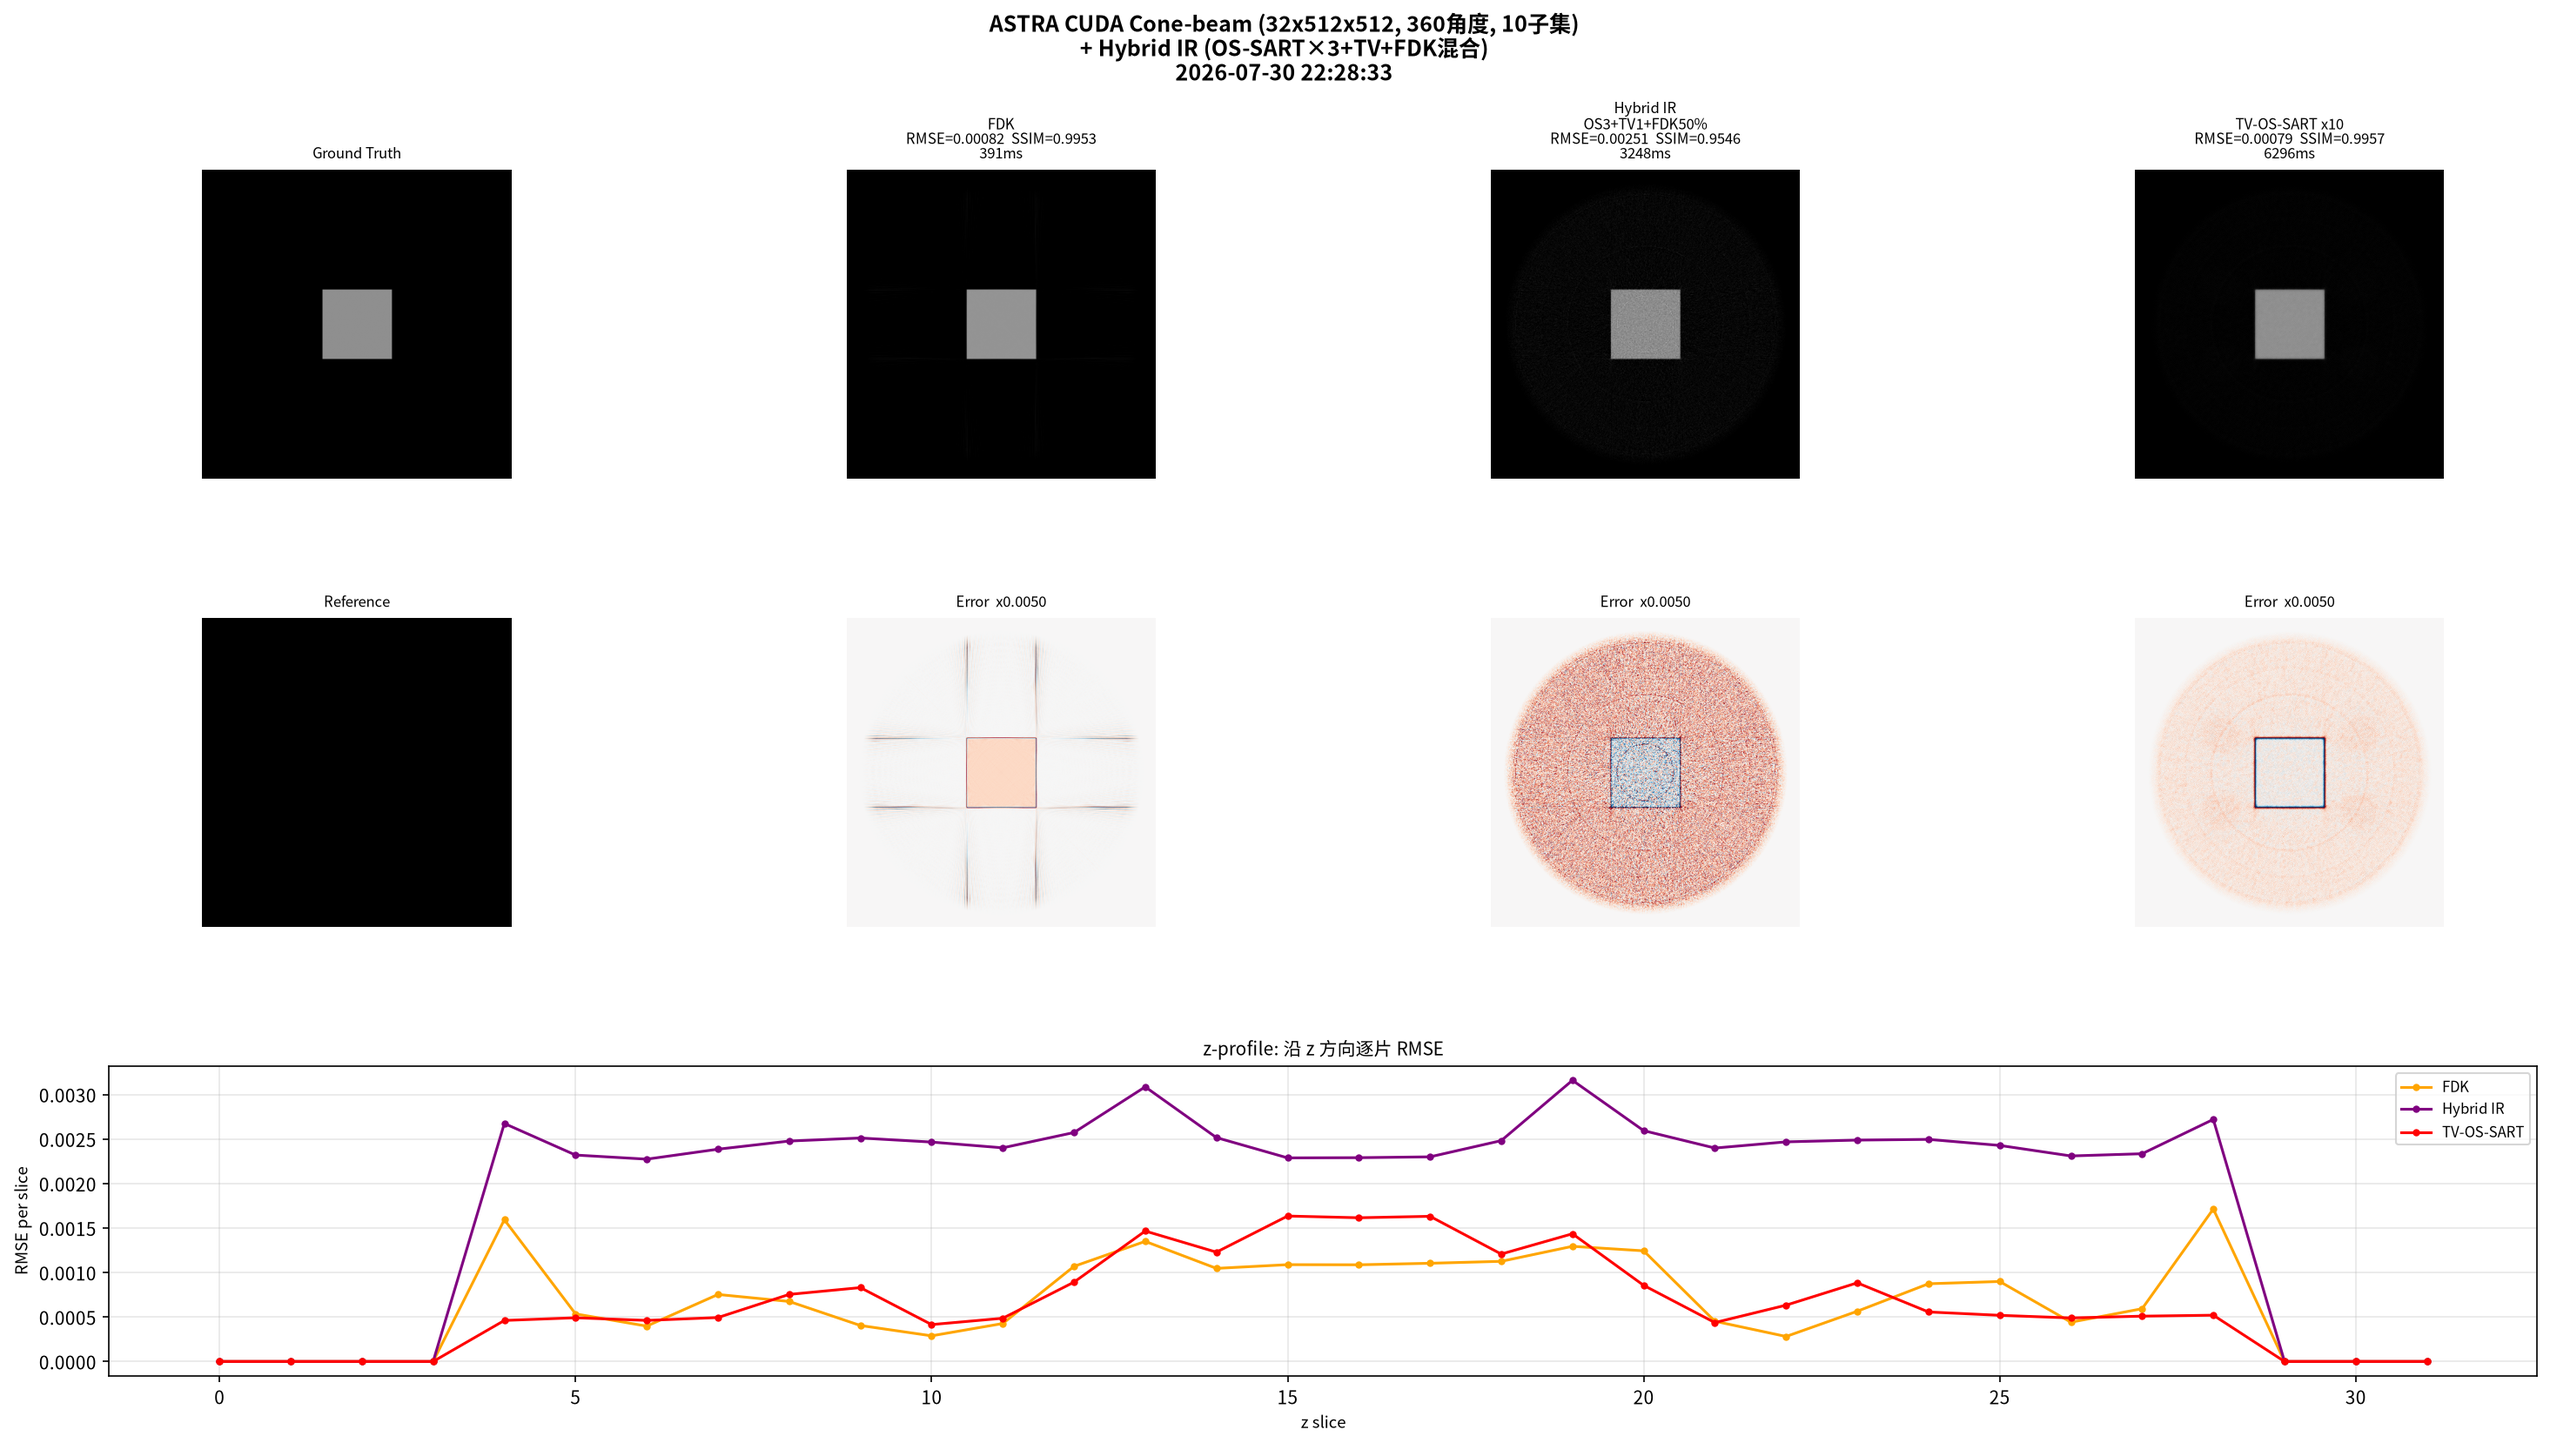
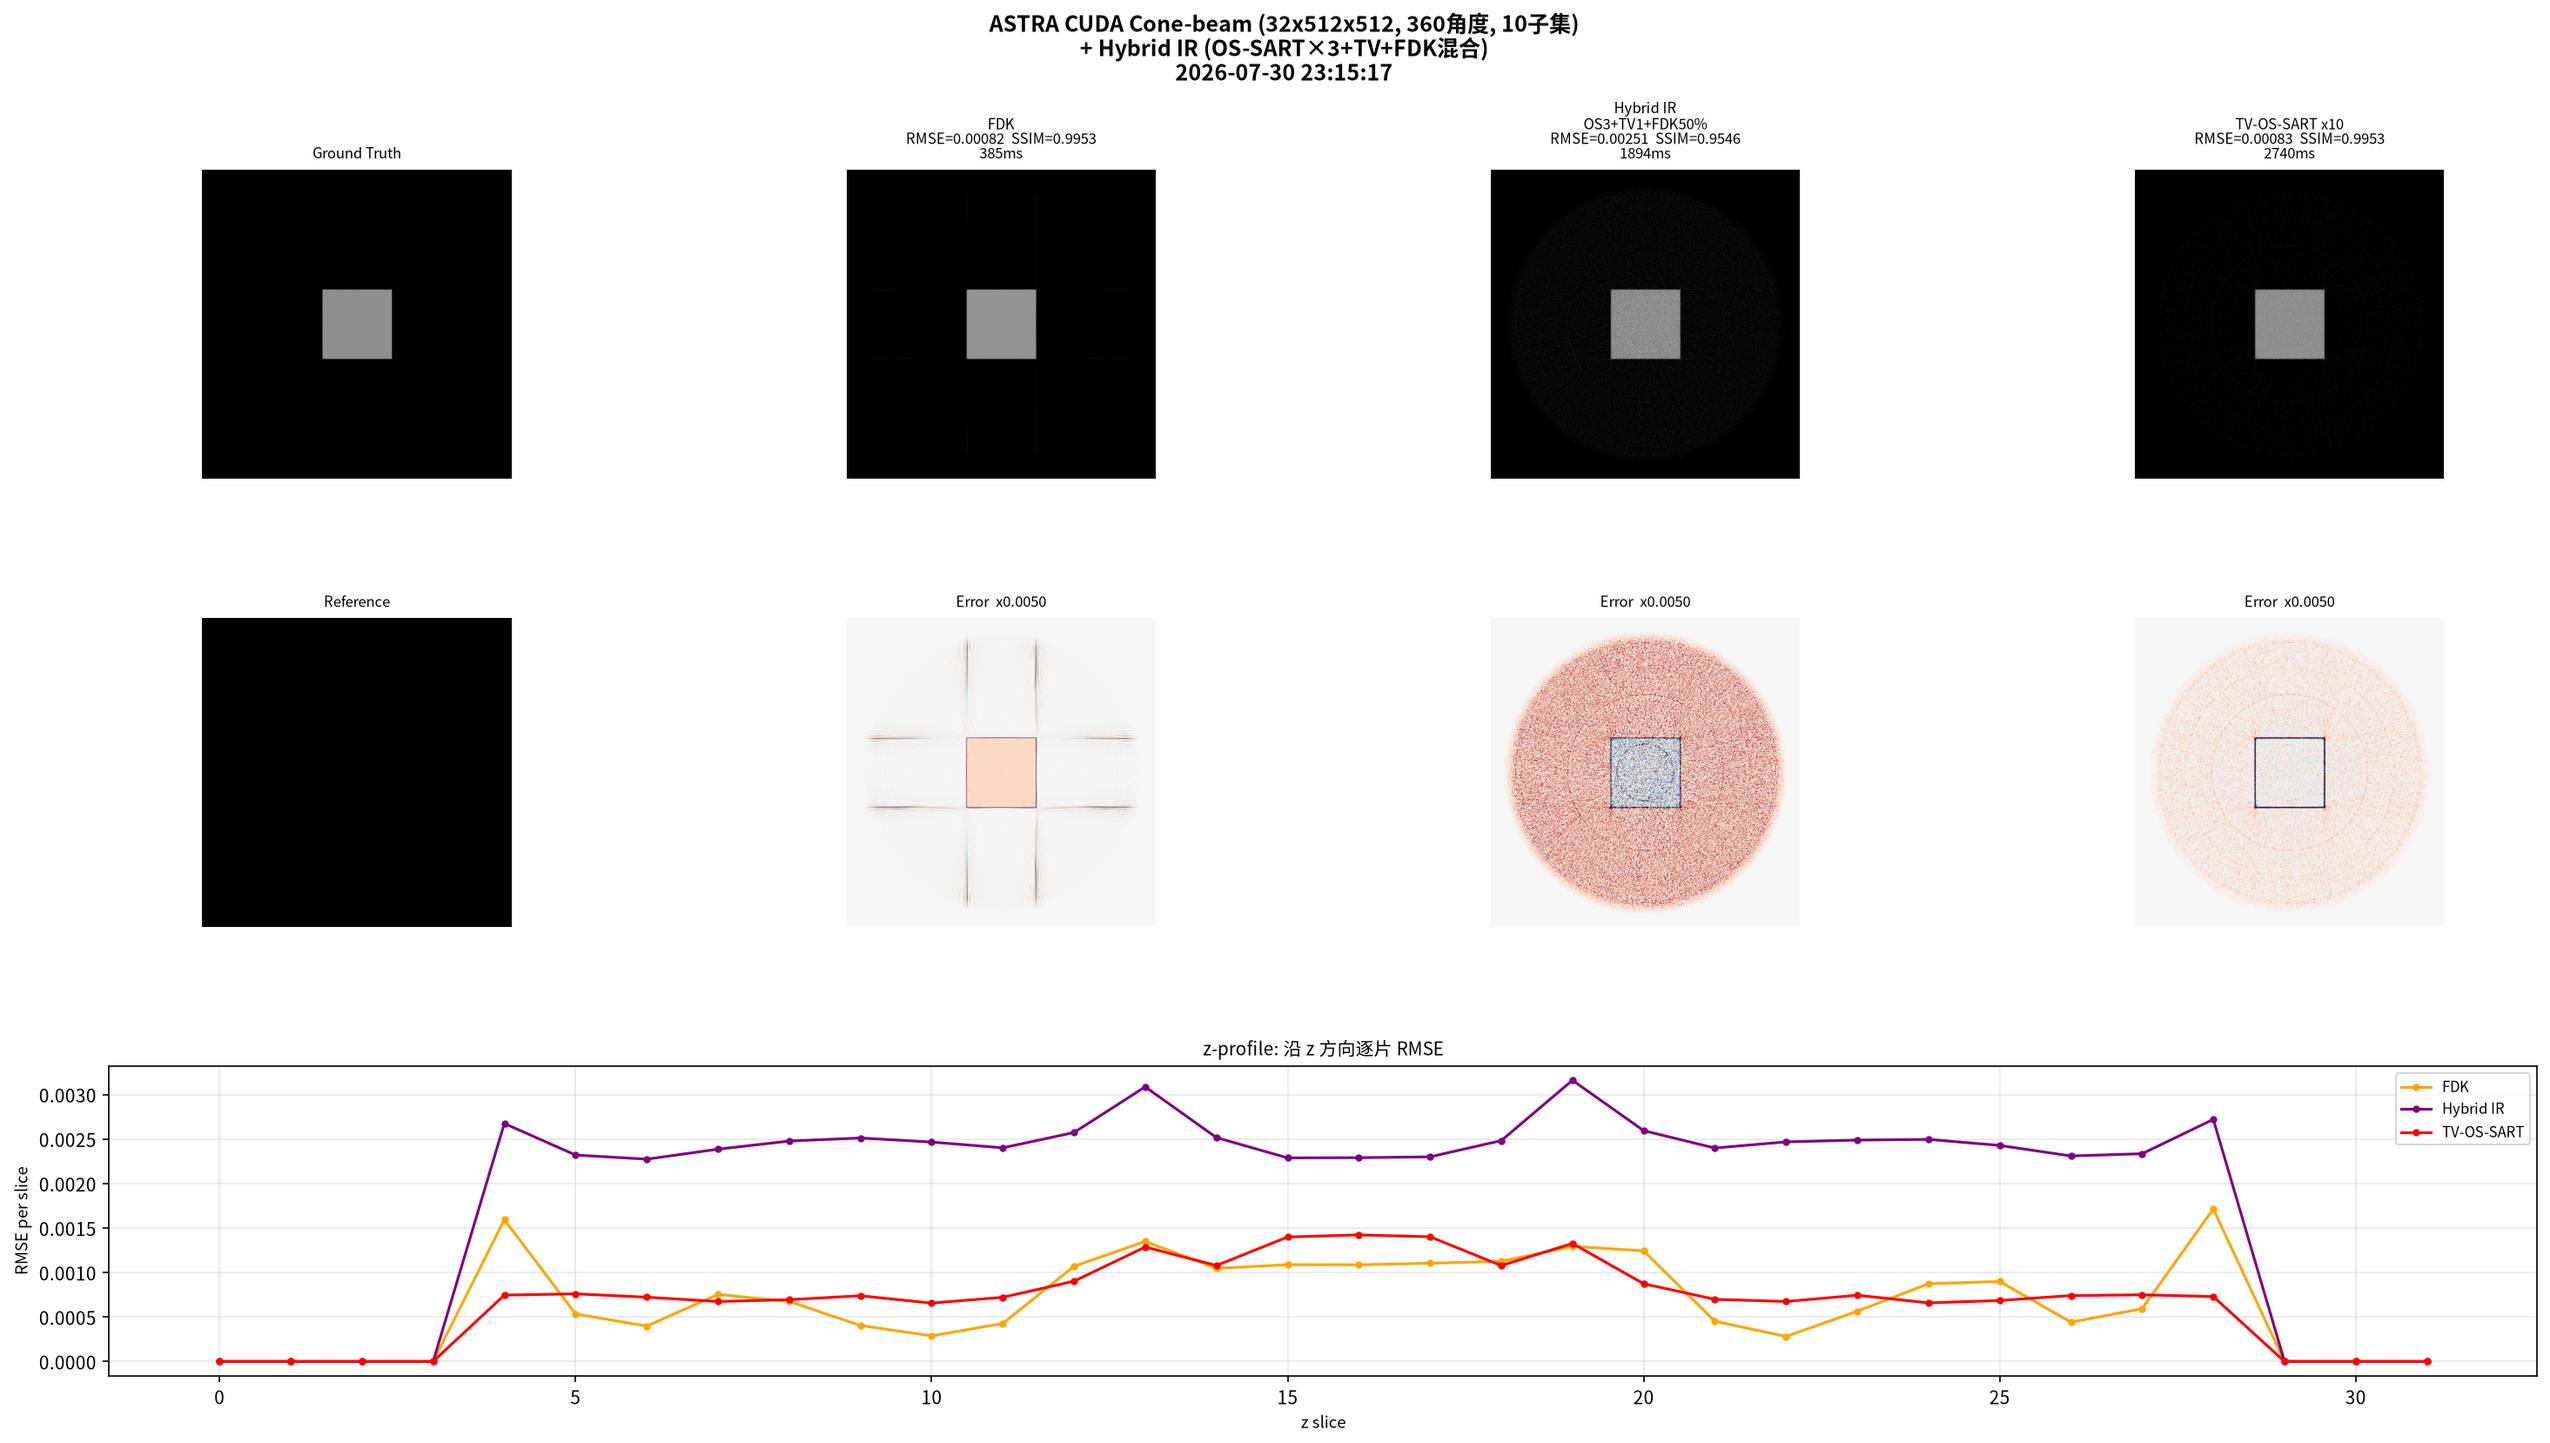
os3+tv1+fdk test ok ,optimized # 008

diff --git a/src_3d_axial/astra_cone_hybrid.py b/src_3d_axial/astra_cone_hybrid.py
@@ -175,15 +175,21 @@ def tv_gradient(v, eps=1e-8):
 n_subsets = 10
 sub_size = n_angles // n_subsets
 
-# 对噪声数据建子集
-subsets_n = []
+# ---- 预分配 ASTRA 对象 (加速) ----
+subset_algs = []
 for i in range(n_subsets):
     idx = slice(i * sub_size, (i + 1) * sub_size)
     sv = vectors[idx].copy()
     pg = astra.create_proj_geom("cone_vec", n_det_row, n_det_col, sv)
     ss = np.ascontiguousarray(sino_noisy[:, idx, :])
     sid_sub = astra.data3d.create("-sino", pg, ss)
-    subsets_n.append((pg, sid_sub))
+    rid_sub = astra.data3d.create("-vol", vol_geom)
+    cfg = astra.astra_dict("SIRT3D_CUDA")
+    cfg["ProjectionDataId"] = sid_sub
+    cfg["ReconstructionDataId"] = rid_sub
+    cfg["option"] = {"GPUindex": 0}
+    alg_sub = astra.algorithm.create(cfg)
+    subset_algs.append((pg, sid_sub, rid_sub, alg_sub))
 
 # 有噪声 FDK
 sid_n = astra.data3d.create("-sino", proj_geom, sino_noisy)
@@ -194,23 +200,23 @@ a = astra.algorithm.create(c); astra.algorithm.run(a)
 rec_fdk_n = astra.data3d.get(rid_n).copy()
 astra.algorithm.delete(a); astra.data3d.delete(rid_n); astra.data3d.delete(sid_n)
 
-# TV-OS-SART (β scheduling: high→low for denoise→detail)
+# TV-OS-SART (预分配加速)
+def fast_sirt(rec, n_step=1):
+    for _ in range(n_step):
+        for _, sid, rid, alg in subset_algs:
+            astra.data3d.store(rid, rec.astype(np.float32))
+            astra.algorithm.run(alg, 1)
+            rec = astra.data3d.get(rid).copy()
+    return rec
+
 best_tv = {"rmse": 1e9}
 rec_tv = rec_fdk_n.copy()
 prev_n = 0
 for ni, beta in zip([1, 3, 5, 10], [0.003, 0.002, 0.001, 0.0005]):
     dn = ni - prev_n
     t0 = time()
-    for _ in range(dn):
-        for _, sid_sub in subsets_n:
-            rid = astra.data3d.create("-vol", vol_geom, data=rec_tv.astype(np.float32))
-            c = astra.astra_dict("SIRT3D_CUDA")
-            c["ProjectionDataId"] = sid_sub; c["ReconstructionDataId"] = rid
-            c["option"] = {"GPUindex": 0}
-            a = astra.algorithm.create(c); astra.algorithm.run(a, 1)
-            rec_tv = astra.data3d.get(rid).copy()
-            astra.algorithm.delete(a); astra.data3d.delete(rid)
-        rec_tv = rec_tv - beta * tv_gradient(rec_tv)
+    rec_tv = fast_sirt(rec_tv, dn)
+    rec_tv = rec_tv - beta * tv_gradient(rec_tv)
     t = time() - t0
     r, s = calc_rmse(linear_scale(rec_tv)), calc_ssim(linear_scale(rec_tv))
     if r < best_tv["rmse"]: best_tv = {"rmse": r, "ssim": s, "rec": linear_scale(rec_tv), "t": t, "n": ni}
@@ -225,15 +231,7 @@ print("C. Hybrid IR (OS-SART×3 + TV×1 + FDK混合 50%)")
 print("-" * 55)
 t0 = time()
 rec_hybrid = rec_fdk_n.copy()
-for _ in range(3):
-    for _, sid_sub in subsets_n:
-        rid = astra.data3d.create("-vol", vol_geom, data=rec_hybrid.astype(np.float32))
-        c = astra.astra_dict("SIRT3D_CUDA")
-        c["ProjectionDataId"] = sid_sub; c["ReconstructionDataId"] = rid
-        c["option"] = {"GPUindex": 0}
-        a = astra.algorithm.create(c); astra.algorithm.run(a, 1)
-        rec_hybrid = astra.data3d.get(rid).copy()
-        astra.algorithm.delete(a); astra.data3d.delete(rid)
+rec_hybrid = fast_sirt(rec_hybrid, 3)
 rec_hybrid = rec_hybrid - 0.003 * tv_gradient(rec_hybrid)
 rec_hybrid = 0.5 * rec_hybrid + 0.5 * rec_fdk_n
 t_hybrid = time() - t0
@@ -242,7 +240,10 @@ print(f"   Hybrid IR: RMSE={r_hybrid:.5f}, SSIM={s_hybrid:.4f}, {t_hybrid*1000:.
 hybrid_zprof = calc_z_profile(linear_scale(rec_hybrid))
 print(f"   z-profile: mean={hybrid_zprof.mean():.5f}, max={hybrid_zprof.max():.5f}")
 
-for _, sid in subsets_n: astra.data3d.delete(sid)
+for pg, sid, rid, alg in subset_algs:
+    astra.algorithm.delete(alg)
+    astra.data3d.delete(rid)
+    astra.data3d.delete(sid)
 print(f"   >> 最优: TV-OS-SART x{best_tv['n']}: RMSE={best_tv['rmse']:.5f}")
 tv_improv = (1 - best_tv['rmse']/fdk_rmse) * 100
 print(f"   TV 改善 vs FDK: {tv_improv:+.1f}%")

diff --git a/src_3d_helical/tigre_cone_hybrid.py b/src_3d_helical/tigre_cone_hybrid.py
@@ -225,6 +225,8 @@ print(f"   TV 改善: {tv_improv:+.1f}%")
 best_tv_zprof = calc_z_profile(best_tv["rec"])
 print(f"   z-profile: mean={best_tv_zprof.mean():.5f}")
 
+
+
 # ========== D. 汇总 ==========
 print("\n" + "=" * 70)
 print(f"汇总对比 (32x512x512, 360角度, blocksize={blocksize})")
@@ -235,10 +237,12 @@ print(f"{'Pure FDK':30s} {fdk_t * 1000:>8.0f} ms  {fdk_rmse:>10.5f}  {fdk_ssim:>
 print(f"{'Hybrid IR':30s} {t_hybrid*1000:>8.0f} ms  {r_hybrid:>10.5f}  {s_hybrid:>8.4f} {hybrid_zprof.mean():>10.5f}")
 print(f"{'TV-OS-SART x'+str(best_tv['n']):30s} {best_tv['t']*1000:>8.0f} ms  {best_tv['rmse']:>10.5f}  {best_tv['ssim']:>8.4f} {best_tv_zprof.mean():>10.5f}")
 
+
 results = [
     ("Pure FDK", fdk_t, fdk_rmse, fdk_ssim),
     ("Hybrid IR", t_hybrid, r_hybrid, s_hybrid),
     ("TV-OS-SART x" + str(best_tv["n"]), best_tv["t"], best_tv["rmse"], best_tv["ssim"]),
+
 ]
 
 # ========== 可视化 ==========
@@ -296,7 +300,7 @@ ax_z.grid(True, alpha=0.3)
 
 plt.suptitle(
     f"TIGRE CUDA Helical Cone-beam (512x512x32, {n_angles}角度, pitch={pitch}mm, blocksize={blocksize})\n"
-    f"+ Hybrid IR (OS-SART×3+TV+FDK混合)\n{ts}",
+    f"+ Hybrid IR (OS-SART\u00d73+TV+FDK\u6df7\u5408)\n{ts}",
     fontsize=12, fontweight="bold", y=0.98
 )
 plt.savefig("img_3d_helical/tigre_cone_hybrid.png", dpi=150, bbox_inches="tight")

diff --git a/doc/optimize.md b/doc/optimize.md
@@ -1,5 +1,7 @@
 # optimize
 
+## optimize #008
+os3+tv1+fdk speed up ,but rmse down
 ## optimize #007 tv beta
 
 ```
